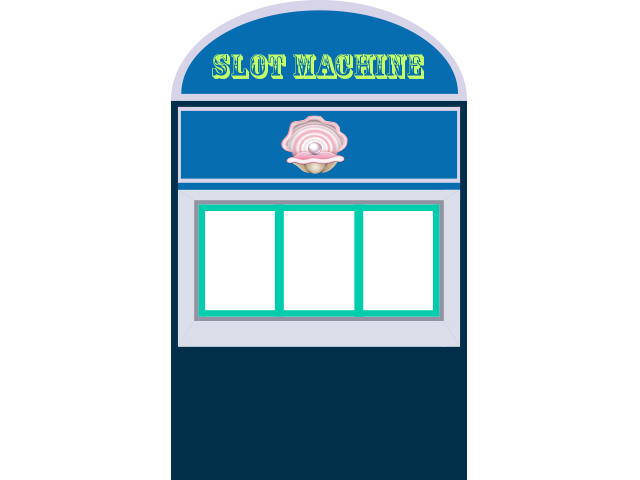
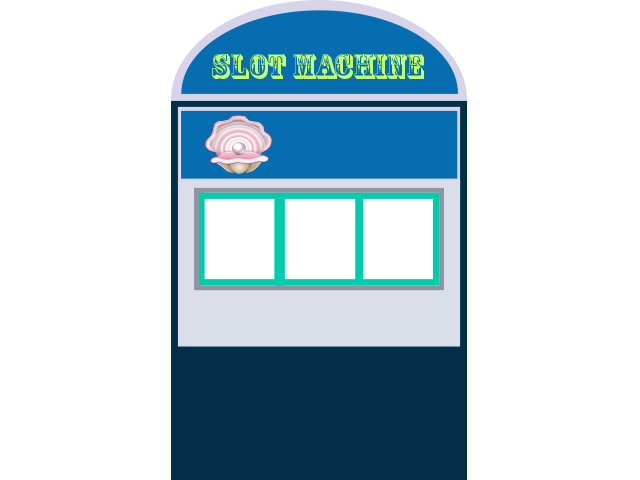
background edited

Changed region(s): [[0.2812, 0.2188, 0.7188, 0.4688], [0.2812, 0.5625, 0.7188, 0.6875]]

diff --git a/Scripts/scenes/slotmachine.js b/Scripts/scenes/slotmachine.js
@@ -27,27 +27,27 @@ var scenes;
             this._backgroundImage = new createjs.Bitmap(assets.getResult("SlotMachine"));
             this.addChild(this._backgroundImage);
             // add SpinButton to the scene
-            this._spinButton = new objects.Button("SpinButton", 200, 375, false);
+            this._spinButton = new objects.Button("SpinButton", 380, 430, false);
             this.addChild(this._spinButton);
             this._spinButton.on("click", this._spinButtonClick, this);
             // add ResetButton to the scene
-            this._resetButton = new objects.Button("ResetButton", 290, 375, false);
+            this._resetButton = new objects.Button("ResetButton", 200, 430, false);
             this.addChild(this._resetButton);
             this._resetButton.on("click", this._resetButtonClick, this);
             // add ExitButton to the scene
-            this._exitButton = new objects.Button("ExitButton", 380, 375, false);
+            this._exitButton = new objects.Button("ExitButton", 290, 430, false);
             this.addChild(this._exitButton);
             this._exitButton.on("click", this._exitButtonClick, this);
             // add Bet50Btn to the scene
-            this._bet50Btn = new objects.Button("Bet50Btn", 200, 430, false);
+            this._bet50Btn = new objects.Button("Bet50Btn", 200, 375, false);
             this.addChild(this._bet50Btn);
             this._bet50Btn.on("click", this._bet50BtnClick, this);
             // add Bet100Btn to the scene
-            this._bet100Btn = new objects.Button("Bet100Btn", 290, 430, false);
+            this._bet100Btn = new objects.Button("Bet100Btn", 290, 375, false);
             this.addChild(this._bet100Btn);
             this._bet100Btn.on("click", this._bet100BtnClick, this);
             // add Bet500Btn to the scene
-            this._bet500Btn = new objects.Button("Bet500Btn", 380, 430, false);
+            this._bet500Btn = new objects.Button("Bet500Btn", 380, 375, false);
             this.addChild(this._bet500Btn);
             this._bet500Btn.on("click", this._bet500BtnClick, this);
             // Setup Background

diff --git a/Scripts/scenes/slotmachine.ts b/Scripts/scenes/slotmachine.ts
@@ -32,32 +32,32 @@ module scenes {
             this.addChild(this._backgroundImage);
             
             // add SpinButton to the scene
-            this._spinButton = new objects.Button("SpinButton", 200, 375, false);
+            this._spinButton = new objects.Button("SpinButton",380, 430, false);
             this.addChild(this._spinButton);
             this._spinButton.on("click", this._spinButtonClick, this); 
             
             // add ResetButton to the scene
-            this._resetButton = new objects.Button("ResetButton", 290, 375, false);
+            this._resetButton = new objects.Button("ResetButton", 200, 430, false);
             this.addChild(this._resetButton);
             this._resetButton.on("click", this._resetButtonClick, this);
             
             // add ExitButton to the scene
-            this._exitButton = new objects.Button("ExitButton", 380, 375, false);
+            this._exitButton = new objects.Button("ExitButton", 290, 430, false);
             this.addChild(this._exitButton);
             this._exitButton.on("click", this._exitButtonClick, this);  
             
             // add Bet50Btn to the scene
-            this._bet50Btn = new objects.Button("Bet50Btn", 200, 430, false);
+            this._bet50Btn = new objects.Button("Bet50Btn", 200, 375, false);
             this.addChild(this._bet50Btn);
             this._bet50Btn.on("click", this._bet50BtnClick, this); 
            
             // add Bet100Btn to the scene
-            this._bet100Btn = new objects.Button("Bet100Btn", 290, 430, false);
+            this._bet100Btn = new objects.Button("Bet100Btn", 290, 375, false);
             this.addChild(this._bet100Btn);
             this._bet100Btn.on("click", this._bet100BtnClick, this); 
             
             // add Bet500Btn to the scene
-            this._bet500Btn = new objects.Button("Bet500Btn", 380, 430, false);
+            this._bet500Btn = new objects.Button("Bet500Btn", 380, 375, false);
             this.addChild(this._bet500Btn);
             this._bet500Btn.on("click", this._bet500BtnClick, this); 
             

diff --git a/Scripts/scenes/menu.js b/Scripts/scenes/menu.js
@@ -24,7 +24,7 @@ var scenes;
                  config.Screen.CENTER_Y);
              this.addChild(this._welcomeLabel);*/
             // add the START button to the MENU scene
-            this._startButton = new objects.Button("StartButton", config.Screen.CENTER_X, config.Screen.CENTER_Y + 80, true);
+            this._startButton = new objects.Button("StartButton", config.Screen.CENTER_X, config.Screen.CENTER_Y, true);
             this.addChild(this._startButton);
             // START Button event listener
             this._startButton.on("click", this._startButtonClick, this);

diff --git a/Content/game.css b/Content/game.css
@@ -1,5 +1,7 @@
 body {
-   background-image: url("dia0806.jpg");
+   background-image: url("1.jpg");
+   background-repeat:no-repeat;
+   background-position: center;
     
      
 }
@@ -7,17 +9,13 @@
 
 canvas {
     margin: auto;
-    
 display: block;
-    
 order-radius: 10px;
-    
-
 text-align: center;
-   
- margin-left: 20%;
-    
+ margin-left:auto;
+ margin-right: auto;
 margin-top: 40px;
+position:
    
 
 }

diff --git a/Scripts/scenes/menu.ts b/Scripts/scenes/menu.ts
@@ -29,7 +29,7 @@ module scenes {
             this._startButton = new objects.Button(
                 "StartButton",
                 config.Screen.CENTER_X,
-                config.Screen.CENTER_Y + 80, true);
+                config.Screen.CENTER_Y , true);
             this.addChild(this._startButton);
             
             // START Button event listener
